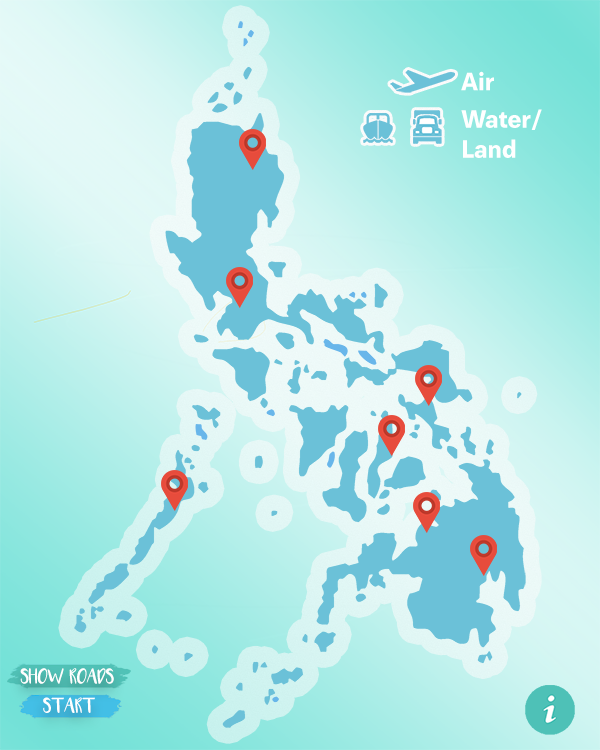
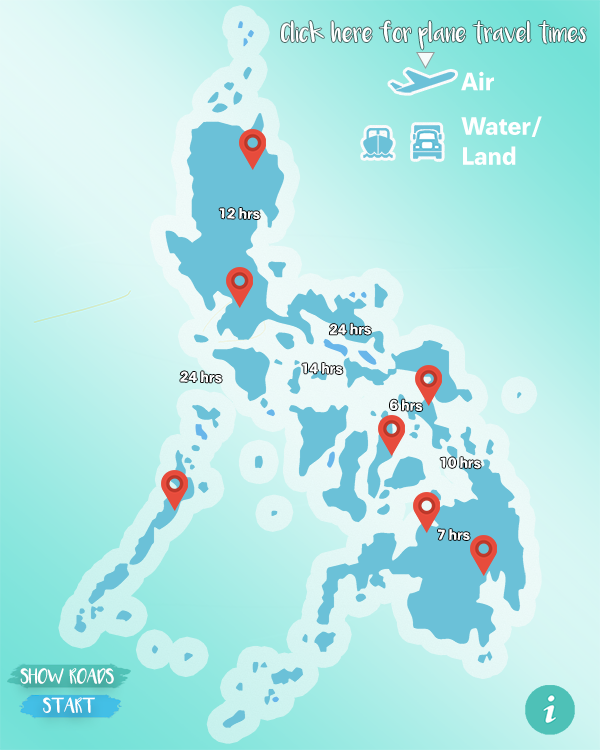
added Danger!

diff --git a/src/main/Government.java b/src/main/Government.java
@@ -12,6 +12,7 @@ public class Government extends javax.swing.JFrame {
     
     private DataManager data;
     private int [] disasterForecast;
+    private int danger = 25;
     
     /**
      * Creates new form Government
@@ -69,7 +70,9 @@ public class Government extends javax.swing.JFrame {
         CDO = new javax.swing.JSpinner();
         PUE = new javax.swing.JSpinner();
         help = new javax.swing.JButton();
+        jLabel5 = new javax.swing.JLabel();
         jLabel1 = new javax.swing.JLabel();
+        Danger = new javax.swing.JSpinner();
         max = new javax.swing.JLabel();
         jLabel3 = new javax.swing.JLabel();
         per_TAC = new javax.swing.JLabel();
@@ -85,6 +88,7 @@ public class Government extends javax.swing.JFrame {
         plane = new javax.swing.JButton();
         jLabel2 = new javax.swing.JLabel();
         jLabel4 = new javax.swing.JLabel();
+        tot1 = new javax.swing.JLabel();
 
         setDefaultCloseOperation(javax.swing.WindowConstants.EXIT_ON_CLOSE);
         setMinimumSize(new java.awt.Dimension(600, 780));
@@ -188,22 +192,36 @@ public class Government extends javax.swing.JFrame {
         getContentPane().add(PUE);
         PUE.setBounds(77, 480, 70, 30);
         getContentPane().add(help);
-        help.setBounds(510, 680, 33, 60);
+        help.setBounds(520, 680, 60, 60);
+
+        jLabel5.setFont(new java.awt.Font("Bebas", 0, 18)); // NOI18N
+        jLabel5.setText("DangeR: ");
+        getContentPane().add(jLabel5);
+        jLabel5.setBounds(20, 60, 80, 25);
 
         jLabel1.setFont(new java.awt.Font("Bebas", 0, 18)); // NOI18N
-        jLabel1.setText("Maximum: ");
+        jLabel1.setText("Efficiency:");
         getContentPane().add(jLabel1);
-        jLabel1.setBounds(20, 20, 80, 25);
+        jLabel1.setBounds(20, 20, 90, 25);
+
+        Danger.setValue(25);
+        Danger.addChangeListener(new javax.swing.event.ChangeListener() {
+            public void stateChanged(javax.swing.event.ChangeEvent evt) {
+                DangerStateChanged(evt);
+            }
+        });
+        getContentPane().add(Danger);
+        Danger.setBounds(90, 60, 60, 30);
 
         max.setFont(new java.awt.Font("Bebas", 0, 18)); // NOI18N
         max.setText("100%");
         getContentPane().add(max);
-        max.setBounds(110, 20, 90, 25);
+        max.setBounds(120, 20, 90, 25);
 
         jLabel3.setFont(new java.awt.Font("Bebas", 0, 18)); // NOI18N
         jLabel3.setText("Total:");
         getContentPane().add(jLabel3);
-        jLabel3.setBounds(20, 50, 49, 25);
+        jLabel3.setBounds(20, 100, 49, 25);
 
         per_TAC.setFont(new java.awt.Font("Bebas", 0, 14)); // NOI18N
         per_TAC.setHorizontalAlignment(javax.swing.SwingConstants.CENTER);
@@ -250,7 +268,7 @@ public class Government extends javax.swing.JFrame {
         tot.setFont(new java.awt.Font("Bebas", 0, 18)); // NOI18N
         tot.setText("0%");
         getContentPane().add(tot);
-        tot.setBounds(80, 50, 50, 25);
+        tot.setBounds(80, 100, 50, 25);
 
         start.addActionListener(new java.awt.event.ActionListener() {
             public void actionPerformed(java.awt.event.ActionEvent evt) {
@@ -277,7 +295,12 @@ public class Government extends javax.swing.JFrame {
 
         jLabel4.setIcon(new javax.swing.ImageIcon(getClass().getResource("/Images/mainph SMALL.png"))); // NOI18N
         getContentPane().add(jLabel4);
-        jLabel4.setBounds(0, 4, 600, 750);
+        jLabel4.setBounds(0, 0, 600, 750);
+
+        tot1.setFont(new java.awt.Font("Bebas", 0, 18)); // NOI18N
+        tot1.setText("0%");
+        getContentPane().add(tot1);
+        tot1.setBounds(80, 50, 50, 25);
 
         pack();
     }// </editor-fold>//GEN-END:initComponents
@@ -285,6 +308,7 @@ public class Government extends javax.swing.JFrame {
     private void initDisasterForecast(){
         disasterForecast = DataManager.calcDisForecast(100);
         
+        // <editor-fold defaultstate="collapsed" desc="setText disaster forecasts">  
         per_MAN.setText(Integer.toString(disasterForecast[0]) + "%");
         per_TUG.setText(Integer.toString(disasterForecast[1]) + "%");
         per_TAC.setText(Integer.toString(disasterForecast[2]) + "%");
@@ -292,6 +316,7 @@ public class Government extends javax.swing.JFrame {
         per_DAV.setText(Integer.toString(disasterForecast[4]) + "%");
         per_PUE.setText(Integer.toString(disasterForecast[5]) + "%");
         per_CDO.setText(Integer.toString(disasterForecast[6]) + "%");
+        // </editor-fold> 
     }
     
     private int getInputSum(){
@@ -385,12 +410,25 @@ public class Government extends javax.swing.JFrame {
     }//GEN-LAST:event_startActionPerformed
 
     private void roadsActionPerformed(java.awt.event.ActionEvent evt) {//GEN-FIRST:event_roadsActionPerformed
-        // TODO add your handling code here:
-        jLabel2.setVisible(false);
+        if(jLabel2.isVisible()){
+            jLabel2.setVisible(false);
+            plane.setEnabled(true);
+        }else{
+            jLabel2.setVisible(true);
+            plane.setEnabled(false);
+        }
     }//GEN-LAST:event_roadsActionPerformed
 
+    private void DangerStateChanged(javax.swing.event.ChangeEvent evt) {//GEN-FIRST:event_DangerStateChanged
+        danger = (Integer) Danger.getValue();
+        
+        if(danger > 100) {
+            JOptionPane.showMessageDialog(null, "Maximum Danger! Exceeded");
+            Danger.setValue(Danger.getPreviousValue());
+        }
+    }//GEN-LAST:event_DangerStateChanged
+
     private void sim1(){
-        Random rand = new Random();
         int totalScore = 0;
         
         for(int desCity = 0; desCity < 7; ++desCity){
@@ -400,7 +438,9 @@ public class Government extends javax.swing.JFrame {
             //max.setText(Double.toString(data.getMinDist(, score)))
         }
         
-        max.setText(Double.toString(totalScore/7.0));
+        double ave = (totalScore/7.0);
+        
+        max.setText( Integer.toString((int) ave) + "%" );
     }
     
     private void sim2(){
@@ -429,15 +469,26 @@ public class Government extends javax.swing.JFrame {
         
         //  assume that the affected city's airport gets rekt
         //  50% chance for each road leading to the city to get rekt
-        for(int otherCity = 0; otherCity < 7; ++otherCity){
-            if(otherCity != desCity){
+        for(int otherCity = 0; otherCity < 7; ++otherCity) {
+            if(otherCity != desCity) {
                 data.destAir(desCity, otherCity);
                 data.destAir(otherCity, desCity);
-
-                //if(rand.nextDouble() > 0.5){
-                //    data.destRoad(desCity, otherCity);
-                //    data.destRoad(otherCity, desCity);
-                //}
+                
+                Random ran = new Random();
+                
+                //  25% of other roads got semi-rekt
+                if(ran.nextDouble() < danger / 100.0) {
+                    int cityA = ran.nextInt(7);
+                    int cityB = ran.nextInt(7);
+                    data.delayRoad(cityA, cityB, ran.nextDouble() * 5);
+                    data.delayRoad(cityB, cityA, ran.nextDouble() * 5);
+                }
+                
+                //  25% of roads got rekt
+                if(ran.nextDouble() < danger / 100.0) {
+                    data.destRoad(desCity, otherCity);
+                    data.destRoad(otherCity, desCity);
+                }
             }
         }
 
@@ -449,12 +500,12 @@ public class Government extends javax.swing.JFrame {
         
         for(int otherCity = 0; otherCity < 7; ++otherCity){
             if(otherCity != desCity && 
-               data.getMinDist(desCity, otherCity) < 24){
+               data.getMinDist(desCity, otherCity) <= 24){
                 score += data.getResDist(otherCity);
                 //System.out.print(Double.toString(data.getResDist(otherCity)) + " ");
             }
         }
-        
+        System.out.println(Double.toString(score) + " " + Integer.toString(desCity));
         return score;
     }
     
@@ -499,6 +550,7 @@ public class Government extends javax.swing.JFrame {
     private javax.swing.JLabel Cagayan;
     private javax.swing.JLabel Cebu;
     private javax.swing.JSpinner DAV;
+    private javax.swing.JSpinner Danger;
     private javax.swing.JLabel Davao;
     private javax.swing.JSpinner MNL;
     private javax.swing.JLabel Manila;
@@ -513,6 +565,7 @@ public class Government extends javax.swing.JFrame {
     private javax.swing.JLabel jLabel2;
     private javax.swing.JLabel jLabel3;
     private javax.swing.JLabel jLabel4;
+    private javax.swing.JLabel jLabel5;
     private javax.swing.JSpinner jSpinner7;
     private javax.swing.JLabel max;
     private javax.swing.JLabel per_CDO;
@@ -526,5 +579,6 @@ public class Government extends javax.swing.JFrame {
     private javax.swing.JButton roads;
     private javax.swing.JButton start;
     private javax.swing.JLabel tot;
+    private javax.swing.JLabel tot1;
     // End of variables declaration//GEN-END:variables
 }

diff --git a/src/main/DataManager.java b/src/main/DataManager.java
@@ -27,12 +27,12 @@ public class DataManager {
     public DataManager() {
         resourceDist = new int[7];
         
-        double [][] defaultRoad = {{  0, 12, 24, 14,INF, 32,INF},
+        double [][] defaultRoad = {{  0, 12, 24, 14,INF, 24,INF},
                                    { 12,  0,INF,INF,INF,INF,INF},
                                    { 24,INF,  0,  6, 10,INF,INF},
                                    { 14,INF,  6,  0,INF,INF,INF},
                                    {INF,INF, 10,INF,  0,INF,  7},
-                                   { 32,INF,INF,INF,INF,  0,INF},
+                                   { 24,INF,INF,INF,INF,  0,INF},
                                    {INF,INF,INF,INF,  7,INF,  0}};
         double [][] defaultAir  = {{0   , 1.75, 1.75, 1.75, 2   , 1.5 , 2   },
                                    {1.75,    0, 4.25, 5.5 , 5   , 4   , 4.25},
@@ -136,7 +136,7 @@ public class DataManager {
     }
     // </editor-fold>
     
-    // <<editor-fold defaultstate="collapsed" desc="Distance Getters"> 
+    // <<editor-fold defaultstate="collapsed" desc="Distance get-delay"> 
     public double getRoadDist(int city1, int city2){
         return roadNetwork[city1][city2];
     }
@@ -147,6 +147,10 @@ public class DataManager {
     
     public double getMinDist(int city1, int city2){
         return minDist[city1][city2];
+    }
+    
+    public void delayRoad(int city1, int city2, double delay){
+        roadNetwork[city1][city2] += delay;
     }
     // </editor-fold>   
     
